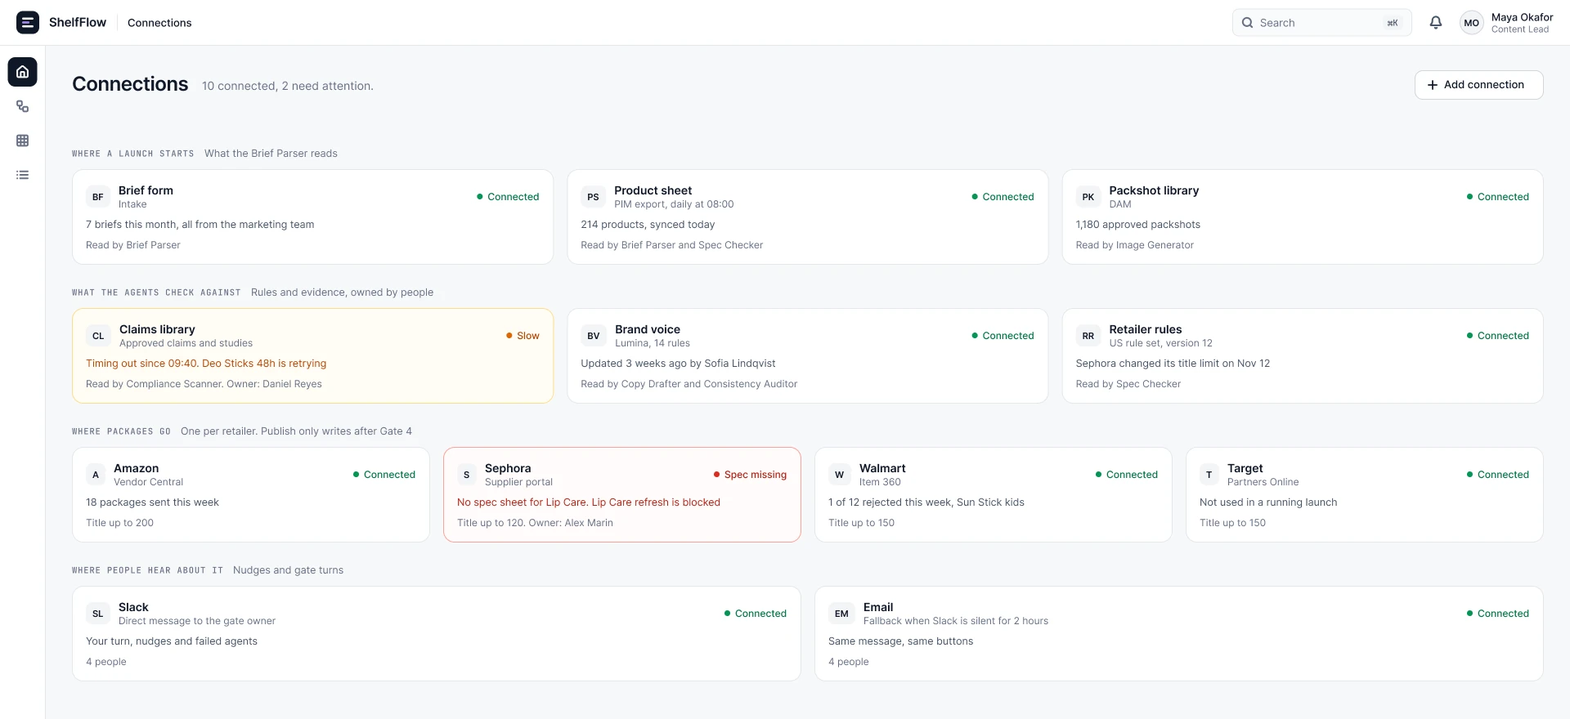
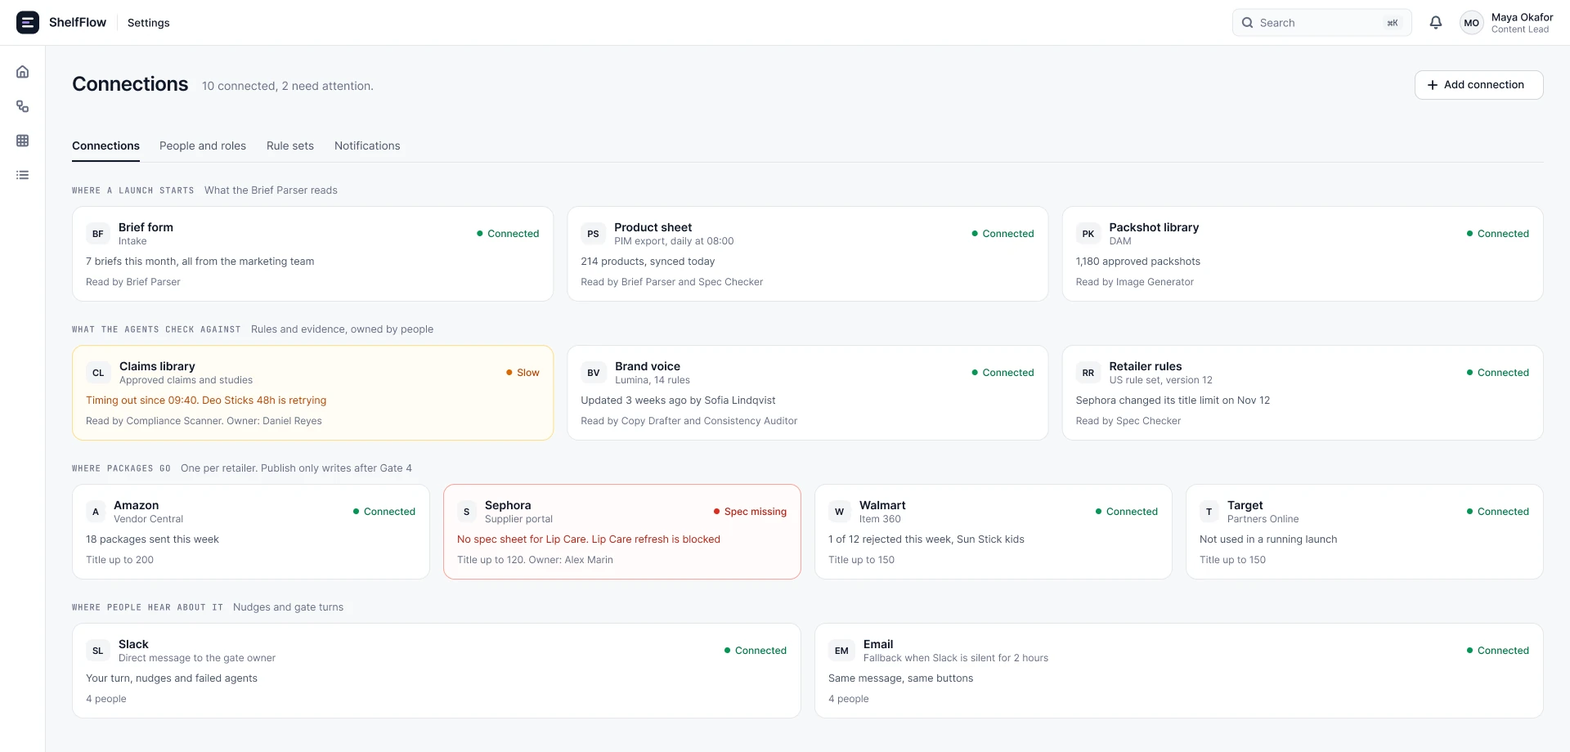
ShelfFlow: Connections as a settings page, chip system shows today's canvas states
Claude-Session: https://claude.ai/code/session_01HvDhLV3ZoERkt8nS9QeULq

diff --git a/work/shelfflow.html b/work/shelfflow.html
@@ -10,7 +10,7 @@
 <meta name="description" content="The supervision interface for an agentic content pipeline. Six AI agents, four human gates, 36 retailer-ready packages per brief. A case study by Inigo Angulo.">
 <meta property="og:title" content="ShelfFlow / Inigo Angulo">
 <meta property="og:description" content="The supervision interface for an agentic content pipeline. Six AI agents, four human gates, 36 retailer-ready packages per brief.">
-<meta property="og:image" content="https://inigoangulo.com/img/shelfflow/og.png?v=1126c">
+<meta property="og:image" content="https://inigoangulo.com/img/shelfflow/og.png?v=1126d">
 <meta property="og:image:width" content="1200">
 <meta property="og:image:height" content="630">
 <meta property="og:type" content="article">
@@ -18,7 +18,7 @@
 <meta name="twitter:card" content="summary_large_image">
 <meta name="twitter:title" content="ShelfFlow / Inigo Angulo">
 <meta name="twitter:description" content="The supervision interface for an agentic content pipeline. Six AI agents, four human gates, 36 retailer-ready packages per brief.">
-<meta name="twitter:image" content="https://inigoangulo.com/img/shelfflow/og.png?v=1126c">
+<meta name="twitter:image" content="https://inigoangulo.com/img/shelfflow/og.png?v=1126d">
 <link rel="preconnect" href="https://fonts.googleapis.com">
 <link rel="preconnect" href="https://fonts.gstatic.com" crossorigin>
 <link href="https://fonts.googleapis.com/css2?family=JetBrains+Mono:wght@300;400;500;600;700&family=IBM+Plex+Sans:wght@400;500;600;700&display=swap" rel="stylesheet">
@@ -89,7 +89,7 @@
   <p class="cs__sub" style="margin:-16px 0 32px;font-size:.78rem;color:var(--t3)">How to read the numbers: client figures are under NDA. "Weeks to days" is the target the product was designed for, not a published result. The numbers in the cards come from the demo launch shown in the screens: Lumina Glow, 6 SKUs, 3 retailers, 2 variants.</p>
 
   <!-- Hero visual -->
-  <div class="cs__img cs__img--wide" data-reveal><img src="../img/shelfflow/cover.png?v=1126c" alt="ShelfFlow canvas in Build mode: a library of agents and gates, and the start of the pipeline as a row of nodes with a sent back loop, above a minimap of the whole flow"></div>
+  <div class="cs__img cs__img--wide" data-reveal><img src="../img/shelfflow/cover.png?v=1126d" alt="ShelfFlow canvas in Build mode: a library of agents and gates, and the start of the pipeline as a row of nodes with a sent back loop, above a minimap of the whole flow"></div>
   <p class="cs__img-cap">The canvas for one launch. Violet nodes are agents, black ones are gates with a person's name on them.</p>
 
 
@@ -350,55 +350,55 @@
     </div>
 
   <div class="cs__screens" data-reveal>
-    <div class="cs__screen"><img src="../img/shelfflow/v4/build-place.webp?v=1126c" alt="Dragging a condition from the library onto an edge of the pipeline" width="1920" height="1080" loading="lazy" decoding="async"><span class="cs__screen-label">Place a node / the edge shows where it fits</span></div>
-    <div class="cs__screen"><img src="../img/shelfflow/v4/build-connect.webp?v=1126c" alt="Pulling a connection from the condition to a new legal review gate" width="1920" height="1080" loading="lazy" decoding="async"><span class="cs__screen-label">Connect a node / the socket shows where it lands</span></div>
+    <div class="cs__screen"><img src="../img/shelfflow/v4/build-place.webp?v=1126d" alt="Dragging a condition from the library onto an edge of the pipeline" width="1920" height="1080" loading="lazy" decoding="async"><span class="cs__screen-label">Place a node / the edge shows where it fits</span></div>
+    <div class="cs__screen"><img src="../img/shelfflow/v4/build-connect.webp?v=1126d" alt="Pulling a connection from the condition to a new legal review gate" width="1920" height="1080" loading="lazy" decoding="async"><span class="cs__screen-label">Connect a node / the socket shows where it lands</span></div>
   </div>
   <p class="cs__img-cap">Adding a branch. A condition dropped between Gate 3 and Gate 4 sends regulated claims through a legal gate, and the launch cannot run until that gate has an owner.</p>
-  <div class="cs__img" data-reveal><img src="../img/shelfflow/v4/build-refuse.webp?v=1126c" alt="The canvas refusing a connection from an agent straight to Publish" width="1920" height="1080" loading="lazy" decoding="async"></div>
+  <div class="cs__img" data-reveal><img src="../img/shelfflow/v4/build-refuse.webp?v=1126d" alt="The canvas refusing a connection from an agent straight to Publish" width="1920" height="1080" loading="lazy" decoding="async"></div>
   <p class="cs__img-cap">A line from an agent to Publish. The canvas refuses it and says why.</p>
     <div class="cs__section-text">
       <p>A real launch does not fit on one screen, and the canvas does not pretend it does. The flow reads in one direction and the operator pans along it, the way they would in any design tool. A minimap keeps the whole pipeline in view and marks the gate that is waiting. Each kind of node shows what it carries: a brief shows the product and where it sells, an agent shows what it made, a gate shows who signs.</p>
     </div>
 
-  <div class="cs__img" data-reveal><img src="../img/shelfflow/v6/run-live.webp?v=1126c" alt="The canvas in the middle of a run, panned to the checks: the Spec Checker is working through three retailers, later steps are joined by dotted lines, and a minimap in the corner shows the whole flow" width="1920" height="1080" loading="lazy" decoding="async"></div>
+  <div class="cs__img" data-reveal><img src="../img/shelfflow/v6/run-live.webp?v=1126d" alt="The canvas in the middle of a run, panned to the checks: the Spec Checker is working through three retailers, later steps are joined by dotted lines, and a minimap in the corner shows the whole flow" width="1920" height="1080" loading="lazy" decoding="async"></div>
   <p class="cs__img-cap">The same canvas halfway through a run, panned to the checks. Dotted lines have not run yet, the diamonds in the launch bar say which gate the launch has reached, and the minimap shows where this view sits in the whole flow.</p>
-  <div class="cs__img" data-reveal><img src="../img/shelfflow/v6/gate-timeline.webp?v=1126c" alt="Five moments of a gate shown in its header: Done in light grey, Now in solid dark, Up next in white, Maybe with a dotted outline and Blocked in red" width="1920" height="372" loading="lazy" decoding="async"></div>
+  <div class="cs__img" data-reveal><img src="../img/shelfflow/v6/gate-timeline.webp?v=1126d" alt="Five moments of a gate shown in its header: Done in light grey, Now in solid dark, Up next in white, Maybe with a dotted outline and Blocked in red" width="1920" height="372" loading="lazy" decoding="async"></div>
   <p class="cs__img-cap">In Build every gate is dark, because it marks where a person decides. Once the launch runs, the header tells time: finished gates go light, the one that is waiting stays dark, and a branch that may not happen is dotted. Every state also has a label, so colour is never the only signal.</p>
     <div class="cs__section-text">
       <p>Every node opens into more detail, and the canvas has to make that clear. A toolbar on every node would put around sixty controls on screen and bury the view of the whole launch. A toolbar that only appears on hover cannot be found, and does not exist on a touch screen. So visibility follows relevance, in three layers: a small mark on every node says it opens, the toolbar appears when a node is hovered or selected, and the one decision that is yours is a button inside the node, always there. What opens is as predictable: any node opens in the side panel to look, expands to a full view to study, and only the Review button on a gate starts a decision, one at a time.</p>
     </div>
 
-  <div class="cs__img" data-reveal><img src="../img/shelfflow/v6/three-layers.webp?v=1126c" alt="The same agent node at rest, on hover with its toolbar, and selected with the toolbar pinned, next to a gate whose Review button sits inside the node" width="1920" height="640" loading="lazy" decoding="async"></div>
+  <div class="cs__img" data-reveal><img src="../img/shelfflow/v6/three-layers.webp?v=1126d" alt="The same agent node at rest, on hover with its toolbar, and selected with the toolbar pinned, next to a gate whose Review button sits inside the node" width="1920" height="640" loading="lazy" decoding="async"></div>
   <p class="cs__img-cap">The same node at rest, on hover and selected. On the right, the gate that is waiting on you carries its own button.</p>
-  <div class="cs__img" data-reveal><img src="../img/shelfflow/v6/node-toolbar.webp?v=1126c" alt="A gate selected in Build mode with its toolbar above it: Change owner, open in side panel, expand, and a More menu that opens upward with Duplicate, Copy link and a locked Delete" width="1920" height="1080" loading="lazy" decoding="async"></div>
+  <div class="cs__img" data-reveal><img src="../img/shelfflow/v6/node-toolbar.webp?v=1126d" alt="A gate selected in Build mode with its toolbar above it: Change owner, open in side panel, expand, and a More menu that opens upward with Duplicate, Copy link and a locked Delete" width="1920" height="1080" loading="lazy" decoding="async"></div>
   <p class="cs__img-cap">The toolbar in Build. One action changes with the node and the other three stay put. The menu opens away from the row, so it never covers the node it belongs to.</p>
     <div class="cs__section-text">
       <p>Before any of that, the operator says where the launch goes. Markets and retailers are chosen first, because everything downstream follows from them: how many packages there are, which claims rules apply and who has to sign. Retailers depend on the market, so the choice is a grid, and the package count moves as it changes.</p>
     </div>
 
   <div class="cs__screens" data-reveal>
-    <div class="cs__screen"><img src="../img/shelfflow/v5/scope-step.webp?v=1126c" alt="Setting the scope of a launch: markets on the left, a grid of retailers per market on the right, and the package count below" width="1920" height="1080" loading="lazy" decoding="async"><span class="cs__screen-label">Scope first / markets, retailers, package count</span></div>
-    <div class="cs__screen"><img src="../img/shelfflow/v5/scope-panel.webp?v=1126c" alt="The scope panel open on the canvas, previewing what adding the United Kingdom would change" width="1920" height="1080" loading="lazy" decoding="async"><span class="cs__screen-label">On the canvas / what a second market adds</span></div>
+    <div class="cs__screen"><img src="../img/shelfflow/v5/scope-step.webp?v=1126d" alt="Setting the scope of a launch: markets on the left, a grid of retailers per market on the right, and the package count below" width="1920" height="1080" loading="lazy" decoding="async"><span class="cs__screen-label">Scope first / markets, retailers, package count</span></div>
+    <div class="cs__screen"><img src="../img/shelfflow/v5/scope-panel.webp?v=1126d" alt="The scope panel open on the canvas, previewing what adding the United Kingdom would change" width="1920" height="1080" loading="lazy" decoding="async"><span class="cs__screen-label">On the canvas / what a second market adds</span></div>
   </div>
   <p class="cs__img-cap">Lumina Glow goes to one market and three retailers: 6 products, 3 retailers, 2 variants, 36 packages. Adding the United Kingdom would add 24.</p>
-  <div class="cs__img" data-reveal><img src="../img/shelfflow/v5/scope-markets.webp?v=1126c" alt="The canvas with two markets: after the retailer checks the flow forks per market, each lane with its own Compliance Scanner rules and its own Gate 3, and the UK gate has no owner yet" width="1920" height="1080" loading="lazy" decoding="async"></div>
+  <div class="cs__img" data-reveal><img src="../img/shelfflow/v5/scope-markets.webp?v=1126d" alt="The canvas with two markets: after the retailer checks the flow forks per market, each lane with its own Compliance Scanner rules and its own Gate 3, and the UK gate has no owner yet" width="1920" height="1080" loading="lazy" decoding="async"></div>
   <p class="cs__img-cap">A second market is more than extra packages. The canvas forks per market, each lane gets its own claims rules and its own Gate 3, and the launch cannot run until the new gate has an owner.</p>
     <div class="cs__section-text">
       <p>The drawing also changes with the brief. A copy refresh on two retailers needs four agents. A seasonal promo needs new visuals, so the operator brings in an optional Image Generator that runs beside the Copy Drafter and arrives at the same gate. A new product line needs every check. ShelfFlow reads the brief and suggests the closest shape.</p>
     </div>
 
   <div class="cs__screens" data-reveal>
-    <div class="cs__screen"><img src="../img/shelfflow/v4/brief-templates.webp?v=1126c" alt="Starting a launch: four pipeline templates, with Promo campaign suggested from the brief" width="1920" height="1080" loading="lazy" decoding="async"><span class="cs__screen-label">Start from the brief / a shape is suggested</span></div>
-    <div class="cs__screen"><img src="../img/shelfflow/v4/promo-canvas.webp?v=1126c" alt="The canvas for a promo campaign, with an optional Image Generator node beside the Copy Drafter" width="1920" height="1080" loading="lazy" decoding="async"><span class="cs__screen-label">Promo canvas / an optional agent joins</span></div>
+    <div class="cs__screen"><img src="../img/shelfflow/v4/brief-templates.webp?v=1126d" alt="Starting a launch: four pipeline templates, with Promo campaign suggested from the brief" width="1920" height="1080" loading="lazy" decoding="async"><span class="cs__screen-label">Start from the brief / a shape is suggested</span></div>
+    <div class="cs__screen"><img src="../img/shelfflow/v4/promo-canvas.webp?v=1126d" alt="The canvas for a promo campaign, with an optional Image Generator node beside the Copy Drafter" width="1920" height="1080" loading="lazy" decoding="async"><span class="cs__screen-label">Promo canvas / an optional agent joins</span></div>
   </div>
   <p class="cs__img-cap">Holiday Gift Sets needs new visuals and carries no regulated claims, so the promo shape is suggested.</p>
-  <div class="cs__img" data-reveal><img src="../img/shelfflow/v4/zoom-optional-node.webp?v=1126c" alt="Close view of the promo canvas: after Gate 1 the path forks to the Copy Drafter and to an Image Generator node tagged optional that shows its packshots, and both meet at Gate 2" width="1664" height="724" loading="lazy" decoding="async"></div>
+  <div class="cs__img" data-reveal><img src="../img/shelfflow/v4/zoom-optional-node.webp?v=1126d" alt="Close view of the promo canvas: after Gate 1 the path forks to the Copy Drafter and to an Image Generator node tagged optional that shows its packshots, and both meet at Gate 2" width="1664" height="724" loading="lazy" decoding="async"></div>
   <p class="cs__img-cap">The optional node, up close. After Gate 1 the path forks: copy on one branch, visuals on the other, and both meet at Gate 2.</p>
-  <div class="cs__img" data-reveal><img src="../img/shelfflow/v4/image-node.webp?v=1126c" alt="The Image Generator node expanded: inputs, generated visuals per retailer format, boundaries and track record" width="1920" height="1080" loading="lazy" decoding="async"></div>
+  <div class="cs__img" data-reveal><img src="../img/shelfflow/v4/image-node.webp?v=1126d" alt="The Image Generator node expanded: inputs, generated visuals per retailer format, boundaries and track record" width="1920" height="1080" loading="lazy" decoding="async"></div>
   <p class="cs__img-cap">Open the node and it shows what every agent shows: what it used, what it made, and what it is not allowed to do. It composes from approved packshots, cannot add a claim or a price, and its output still waits for a person.</p>
-  <div class="cs__img" data-reveal><img src="../img/shelfflow/v4/zoom-image-node.webp?v=1126c" alt="Generated visuals for gift sets by retailer format: some ready, one redone, two still generating" width="1800" height="1194" loading="lazy" decoding="async"></div>
+  <div class="cs__img" data-reveal><img src="../img/shelfflow/v4/zoom-image-node.webp?v=1126d" alt="Generated visuals for gift sets by retailer format: some ready, one redone, two still generating" width="1800" height="1194" loading="lazy" decoding="async"></div>
   <p class="cs__img-cap">Its output: one visual per gift set and retailer format. One was redone for being off brand before anyone saw it. These images were generated for the demo.</p>
-  <div class="cs__img" data-reveal><img src="../img/shelfflow/v4/three-canvases.webp?v=1126c" alt="Three canvases compared: a copy refresh with four agents, a promo campaign with five, and a full launch with six and a legal branch" width="1920" height="1080" loading="lazy" decoding="async"></div>
+  <div class="cs__img" data-reveal><img src="../img/shelfflow/v4/three-canvases.webp?v=1126d" alt="Three canvases compared: a copy refresh with four agents, a promo campaign with five, and a full launch with six and a legal branch" width="1920" height="1080" loading="lazy" decoding="async"></div>
   <p class="cs__img-cap">Three briefs, three canvases, drawn with the same nodes at the same zoom: four, five and six agents. The gates do not move.</p>
     <div class="cs__section-text">
       <p>A shape that worked should not be rebuilt by hand. Once a launch is live, the operator can save it as a template, and Brief Parser does the sorting: it compares past launches and splits every setting into what stays fixed, what comes filled in, and what is asked each time. The next promo is four fields instead of a brief.</p>
@@ -406,16 +406,16 @@
     </div>
 
   <div class="cs__screens" data-reveal>
-    <div class="cs__screen"><img src="../img/shelfflow/v5/template-save.webp?v=1126c" alt="Save as template: the settings of a live launch sorted into three columns, Fixed, Default and Ask every time" width="1920" height="1080" loading="lazy" decoding="async"><span class="cs__screen-label">Save as template / the agent sorts the settings</span></div>
-    <div class="cs__screen"><img src="../img/shelfflow/v5/template-launch.webp?v=1126c" alt="A new launch started from a template: four fields to fill in, next to the list of what is already decided" width="1920" height="1080" loading="lazy" decoding="async"><span class="cs__screen-label">New launch / four fields, the rest is decided</span></div>
+    <div class="cs__screen"><img src="../img/shelfflow/v5/template-save.webp?v=1126d" alt="Save as template: the settings of a live launch sorted into three columns, Fixed, Default and Ask every time" width="1920" height="1080" loading="lazy" decoding="async"><span class="cs__screen-label">Save as template / the agent sorts the settings</span></div>
+    <div class="cs__screen"><img src="../img/shelfflow/v5/template-launch.webp?v=1126d" alt="A new launch started from a template: four fields to fill in, next to the list of what is already decided" width="1920" height="1080" loading="lazy" decoding="async"><span class="cs__screen-label">New launch / four fields, the rest is decided</span></div>
   </div>
   <p class="cs__img-cap">Alex saves Holiday Gift Sets as a template. The next gift set launch asks for products, dates, the offer claim and the packshots, and nothing else.</p>
-  <div class="cs__img" data-reveal><img src="../img/shelfflow/v5/template-update.webp?v=1126c" alt="A proposed template update from version 3 to version 4: two changes with their evidence, the affected node marked on the canvas, and approve or dismiss" width="1920" height="1080" loading="lazy" decoding="async"></div>
+  <div class="cs__img" data-reveal><img src="../img/shelfflow/v5/template-update.webp?v=1126d" alt="A proposed template update from version 3 to version 4: two changes with their evidence, the affected node marked on the canvas, and approve or dismiss" width="1920" height="1080" loading="lazy" decoding="async"></div>
   <p class="cs__img-cap">Keeping it current. Image Generator was added by hand in 4 of the last 5 launches, so Diff Reporter proposes turning it on by default. Maya can approve both changes, one, or none.</p>
-  <div class="cs__img" data-reveal><img src="../img/shelfflow/v5/template-library.webp?v=1126c" alt="The template library: three templates owned by the team with their state and usage, and the three shapes that ship with ShelfFlow, locked" width="1920" height="1080" loading="lazy" decoding="async"></div>
+  <div class="cs__img" data-reveal><img src="../img/shelfflow/v5/template-library.webp?v=1126d" alt="The template library: three templates owned by the team with their state and usage, and the three shapes that ship with ShelfFlow, locked" width="1920" height="1080" loading="lazy" decoding="async"></div>
   <p class="cs__img-cap">The library. The team's templates carry a state, a version and how long they take to reach Live. The three shapes that ship with ShelfFlow can be duplicated, not edited.</p>
-  <div class="cs__img" data-reveal><img src="../img/shelfflow/v5/chip-system.webp?v=1126c" alt="The chip system: five kinds of label, each answering one question, with the life cycle of a launch, a template and a gate" width="1920" height="1080" loading="lazy" decoding="async"></div>
-  <p class="cs__img-cap">Templates added a second thing that could be a draft, so every label in the product was sorted again. A chip now answers one question: where it is, what the agent is doing, what rule applies, where it came from, or how many.</p>
+  <div class="cs__img" data-reveal><img src="../img/shelfflow/v5/chip-system.webp?v=1126d" alt="The chip system: five kinds of label, each answering one question, the life cycle of a launch, a template and a gate, and how each state shows up on the canvas" width="1920" height="1080" loading="lazy" decoding="async"></div>
+  <p class="cs__img-cap">Templates added a second thing that could be a draft, so every label in the product was sorted again. A chip now answers one question: where it is, what the agent is doing, what rule applies, where it came from, or how many. On the canvas the same states sit in the header of the node they describe.</p>
   <a href="/lab/hold-the-gate/" data-reveal style="display:flex;align-items:center;gap:20px;flex-wrap:wrap;background:rgba(45,212,191,.04);border:1px solid rgba(45,212,191,.25);border-radius:12px;padding:22px 26px;margin:28px 0;text-decoration:none">
     <span style="flex:1;min-width:240px">
       <span style="display:block;font-family:var(--m);font-size:11px;color:var(--ac);letter-spacing:2px">&#9670; IN THE LAB, 4 MIN</span>
@@ -439,47 +439,47 @@
       <p>Below, every launch by stage. A card shows what separates one launch from the next: days to launch, progress inside its stage and, when something is wrong, what. The four diamonds in its corner are the same ones the canvas uses: green for a gate already signed, black for the one open now, outlined for the ones still ahead.</p>
     </div>
 
-  <div class="cs__img" data-reveal><img src="../img/shelfflow/v4/home-dashboard.webp?v=1126c" alt="ShelfFlow home: the decision queue with the first row selected, the launches that are not moving with who they wait on, the dates for the week, and a board of sixteen launches by stage" width="1920" height="1080" loading="lazy" decoding="async"></div>
+  <div class="cs__img" data-reveal><img src="../img/shelfflow/v4/home-dashboard.webp?v=1126d" alt="ShelfFlow home: the decision queue with the first row selected, the launches that are not moving with who they wait on, the dates for the week, and a board of sixteen launches by stage" width="1920" height="1080" loading="lazy" decoding="async"></div>
   <p class="cs__img-cap">Home, from the Content Lead's seat. The queue is hers, the list next to it is everyone else's. On the board, black is waiting on her, grey on someone else, violet is an agent working, red is an error.</p>
-  <div class="cs__img" data-reveal><img src="../img/shelfflow/v4/zoom-home-cards.webp?v=1126c" alt="Close view of launch cards: four diamonds for the gates, days to launch, progress bars and error states" width="1800" height="680" loading="lazy" decoding="async"></div>
+  <div class="cs__img" data-reveal><img src="../img/shelfflow/v4/zoom-home-cards.webp?v=1126d" alt="Close view of launch cards: four diamonds for the gates, days to launch, progress bars and error states" width="1800" height="680" loading="lazy" decoding="async"></div>
   <p class="cs__img-cap">Three kinds of trouble on the board: a check blocked by a missing spec sheet, an agent that timed out and is retrying, and a launch two days late.</p>
-  <div class="cs__img" data-reveal><img src="../img/shelfflow/v4/home-filter.webp?v=1126c" alt="The board filtered to launches with an error: two cards remain, with the filter conditions open" width="1864" height="484" loading="lazy" decoding="async"></div>
+  <div class="cs__img" data-reveal><img src="../img/shelfflow/v4/home-filter.webp?v=1126d" alt="The board filtered to launches with an error: two cards remain, with the filter conditions open" width="1864" height="484" loading="lazy" decoding="async"></div>
   <p class="cs__img-cap">Finding one launch among sixteen: search by name, SKU or retailer, or filter by condition.</p>
     <p style="font-family:var(--m);font-size:.72rem;letter-spacing:.1em;text-transform:uppercase;color:var(--ac);margin:44px 0 10px">13:02 to 13:14 / Gate 1, the brief</p>
     <div class="cs__section-text">
       <p>Alex submits the brief. The Brief Parser structures it into 6 SKUs and 36 packages, and stops on what it cannot settle: the brief names three markets, but every retailer and SKU is US only. Maya answers the question and locks the brief. From here it cannot change silently.</p>
     </div>
 
-  <div class="cs__img" data-reveal><img src="../img/shelfflow/v3/gate1.webp?v=1126c" alt="Gate 1: the submitted brief next to what the agent structured, field by field" width="1920" height="1080" loading="lazy" decoding="async"></div>
+  <div class="cs__img" data-reveal><img src="../img/shelfflow/v3/gate1.webp?v=1126d" alt="Gate 1: the submitted brief next to what the agent structured, field by field" width="1920" height="1080" loading="lazy" decoding="async"></div>
   <p class="cs__img-cap">Gate 1. On the left, what Alex wrote. On the right, what the agent read, with every difference marked.</p>
     <p style="font-family:var(--m);font-size:.72rem;letter-spacing:.1em;text-transform:uppercase;color:var(--ac);margin:44px 0 10px">13:17 to 13:52 / Gate 2, drafts and a loop</p>
     <div class="cs__section-text">
       <p>The Copy Drafter writes two versions of all 36 packages. Maya sends three back as too long for Sephora. She says what is wrong in one sentence, the work returns to the agent, and she is free until it comes back. Minutes later the rewrites return with the changes marked, and she approves all 36.</p>
     </div>
 
-  <div class="cs__img" data-reveal><img src="../img/shelfflow/v4/zoom-loop.webp?v=1126c" alt="Close view of the sent back loop between Gate 2 and the Copy Drafter" width="1360" height="680" loading="lazy" decoding="async"></div>
+  <div class="cs__img" data-reveal><img src="../img/shelfflow/v4/zoom-loop.webp?v=1126d" alt="Close view of the sent back loop between Gate 2 and the Copy Drafter" width="1360" height="680" loading="lazy" decoding="async"></div>
   <p class="cs__img-cap">A rejection is a loop, not a dead end. Three drafts are back with the Copy Drafter and everything downstream waits.</p>
     <p style="font-family:var(--m);font-size:.72rem;letter-spacing:.1em;text-transform:uppercase;color:var(--ac);margin:44px 0 10px">14:10 to 14:21 / The checks</p>
     <div class="cs__section-text">
       <p>Past Gate 2 the Spec Checker takes each retailer against its own limits, one row per retailer, and nothing moves on until all three fit. Then the Compliance Scanner reads every claim. On the canvas an agent says what it did in one line: packages written, retailers that fit, claims flagged. The detail is one click away.</p>
     </div>
 
-  <div class="cs__img" data-reveal><img src="../img/shelfflow/v4/zoom-split.webp?v=1126c" alt="Close view of the Spec Checker while it runs: one row per retailer, Amazon fits, Sephora and Walmart are being checked" width="1520" height="800" loading="lazy" decoding="async"></div>
+  <div class="cs__img" data-reveal><img src="../img/shelfflow/v4/zoom-split.webp?v=1126d" alt="Close view of the Spec Checker while it runs: one row per retailer, Amazon fits, Sephora and Walmart are being checked" width="1520" height="800" loading="lazy" decoding="async"></div>
   <p class="cs__img-cap">The Spec Checker while it runs. Amazon fits, Sephora and Walmart are still being checked.</p>
-  <div class="cs__img" data-reveal><img src="../img/shelfflow/v4/run-agent.webp?v=1126c" alt="Clicking the Compliance Scanner opens its essentials in a side panel" width="1920" height="1080" loading="lazy" decoding="async"></div>
+  <div class="cs__img" data-reveal><img src="../img/shelfflow/v4/run-agent.webp?v=1126d" alt="Clicking the Compliance Scanner opens its essentials in a side panel" width="1920" height="1080" loading="lazy" decoding="async"></div>
   <p class="cs__img-cap">Clicking the scanner: what it flagged, what it may and may not do, and how often its flags hold up once a person checks them.</p>
     <p style="font-family:var(--m);font-size:.72rem;letter-spacing:.1em;text-transform:uppercase;color:var(--ac);margin:44px 0 10px">14:21 to 14:52 / Gate 3, compliance</p>
     <div class="cs__section-text">
       <p>The scanner raises four flags: "clinically proven", "results in 14 days", "dermatologist approved" and "all-day protection". They sit on six packages, because the same claim repeats across retailers. The other 30 are clear. The flags are what the agent caught, not what shipped. Daniel takes them one at a time.</p>
     </div>
 
-  <div class="cs__img" data-reveal><img src="../img/shelfflow/v6/gate-panel.webp?v=1126c" alt="Gate 3 selected on the canvas with its side panel open: four flagged claims, the count of clear packages and a Review flags button" width="1920" height="1080" loading="lazy" decoding="async"></div>
+  <div class="cs__img" data-reveal><img src="../img/shelfflow/v6/gate-panel.webp?v=1126d" alt="Gate 3 selected on the canvas with its side panel open: four flagged claims, the count of clear packages and a Review flags button" width="1920" height="1080" loading="lazy" decoding="async"></div>
   <p class="cs__img-cap">Gate 3 from Daniel's seat. Selecting the gate opens it in the side panel, where every node opens, and the decision starts from Review.</p>
-  <div class="cs__img" data-reveal><img src="../img/shelfflow/v6/matrix.webp?v=1126c" alt="The Matrix view: six products by three retailers, two versions per cell, with the six flagged packages marked in red" width="1920" height="1080" loading="lazy" decoding="async"></div>
+  <div class="cs__img" data-reveal><img src="../img/shelfflow/v6/matrix.webp?v=1126d" alt="The Matrix view: six products by three retailers, two versions per cell, with the six flagged packages marked in red" width="1920" height="1080" loading="lazy" decoding="async"></div>
   <p class="cs__img-cap">The same moment in the Matrix view: every package by product and retailer. Four flags on six packages, 30 clear.</p>
-  <div class="cs__img" data-reveal><img src="../img/shelfflow/v4/gate3-review.webp?v=1126c" alt="Gate 3 opened over the canvas, showing one flagged sentence" width="1920" height="1080" loading="lazy" decoding="async"></div>
+  <div class="cs__img" data-reveal><img src="../img/shelfflow/v4/gate3-review.webp?v=1126d" alt="Gate 3 opened over the canvas, showing one flagged sentence" width="1920" height="1080" loading="lazy" decoding="async"></div>
   <p class="cs__img-cap">One flag: the sentence, the reason, a note for the agent, and a keyboard shortcut per answer. This decision also covers the same claim in two other packages.</p>
-  <div class="cs__img" data-reveal><img src="../img/shelfflow/v3/gate3-evidence.webp?v=1126c" alt="The full evidence view for one flag, with the decision panel" width="1920" height="1080" loading="lazy" decoding="async"></div>
+  <div class="cs__img" data-reveal><img src="../img/shelfflow/v3/gate3-evidence.webp?v=1126d" alt="The full evidence view for one flag, with the decision panel" width="1920" height="1080" loading="lazy" decoding="async"></div>
   <p class="cs__img-cap">The evidence behind it: the rule, the source sentence in the brief, and a suggested rewrite that is never applied on its own.</p>
     <p style="font-family:var(--m);font-size:.72rem;letter-spacing:.1em;text-transform:uppercase;color:var(--ac);margin:44px 0 10px">14:52 to 15:24 / Gate 4, the launch</p>
     <div class="cs__section-text">
@@ -487,8 +487,8 @@
     </div>
 
   <div class="cs__screens" data-reveal>
-    <div class="cs__screen"><img src="../img/shelfflow/v4/gate4-choose.webp?v=1126c" alt="Gate 4: choosing between version A and B for one product and retailer" width="1920" height="1080" loading="lazy" decoding="async"><span class="cs__screen-label">Gate 4 / one choice</span></div>
-    <div class="cs__screen"><img src="../img/shelfflow/v4/gate4-batch.webp?v=1126c" alt="Gate 4: the batch shortcut stays locked until every choice has been opened" width="1920" height="1080" loading="lazy" decoding="async"><span class="cs__screen-label">Gate 4 / the shortcut, still locked</span></div>
+    <div class="cs__screen"><img src="../img/shelfflow/v4/gate4-choose.webp?v=1126d" alt="Gate 4: choosing between version A and B for one product and retailer" width="1920" height="1080" loading="lazy" decoding="async"><span class="cs__screen-label">Gate 4 / one choice</span></div>
+    <div class="cs__screen"><img src="../img/shelfflow/v4/gate4-batch.webp?v=1126d" alt="Gate 4: the batch shortcut stays locked until every choice has been opened" width="1920" height="1080" loading="lazy" decoding="async"><span class="cs__screen-label">Gate 4 / the shortcut, still locked</span></div>
   </div>
   <p class="cs__img-cap">Two versions side by side with their character counts. On the right, the shortcut waits for six choices she has not opened yet.</p>
     <p style="font-family:var(--m);font-size:.72rem;letter-spacing:.1em;text-transform:uppercase;color:var(--ac);margin:44px 0 10px">15:24 / Live</p>
@@ -496,18 +496,18 @@
       <p>Sofia approves. One variant of each product goes live on each retailer: 18 packages, 2 hours and 22 minutes after the brief arrived.</p>
     </div>
 
-  <div class="cs__img" data-reveal><img src="../img/shelfflow/v4/run-done.webp?v=1126c" alt="The canvas after launch: every gate signed, 18 packages live" width="1920" height="1080" loading="lazy" decoding="async"></div>
+  <div class="cs__img" data-reveal><img src="../img/shelfflow/v4/run-done.webp?v=1126d" alt="The canvas after launch: every gate signed, 18 packages live" width="1920" height="1080" loading="lazy" decoding="async"></div>
   <p class="cs__img-cap">The same drawing Alex built, with every node done.</p>
-  <div class="cs__img" data-reveal><img src="../img/shelfflow/v3/audit.webp?v=1126c" alt="Audit trail view: every step in order with people in bold, and one step open showing who sent three packages back, why, and what the agents did next" width="1920" height="1080" loading="lazy" decoding="async"></div>
+  <div class="cs__img" data-reveal><img src="../img/shelfflow/v3/audit.webp?v=1126d" alt="Audit trail view: every step in order with people in bold, and one step open showing who sent three packages back, why, and what the agents did next" width="1920" height="1080" loading="lazy" decoding="async"></div>
   <p class="cs__img-cap">The audit trail for this launch. People are in bold and each gate decision is tagged, so "who approved this claim?" is one row with a name and a time. Every step opens in place: who, what, the note that went to the agent and what happened next.</p>
     <p style="font-family:var(--m);font-size:.72rem;letter-spacing:.1em;text-transform:uppercase;color:var(--ac);margin:44px 0 10px">Off the happy path</p>
     <div class="cs__section-text">
       <p>Lumina Glow went through without a failure, and most launches do not. Two things break a pipeline like this one: an agent that stops answering, and a person who does not see that a gate is waiting. Each has a designed path. An agent retries three times on its own, then stops the launch at its node and tells the operator, who can retry it or hand the node to a person. A failed agent never passes work on, so the gate after it stays closed. A person gets a nudge that carries the decision itself, and the two gates that are one question at a time can be answered from a phone.</p>
     </div>
-  <div class="cs__img" data-reveal><img src="../img/shelfflow/v6/off-plan.webp?v=1126c" alt="Three states of a failing agent, the nudge a gate owner receives with the flag inside it, and Gate 3 reviewed on a phone" width="1920" height="780" loading="lazy" decoding="async"></div>
+  <div class="cs__img" data-reveal><img src="../img/shelfflow/v6/off-plan.webp?v=1126d" alt="Three states of a failing agent, the nudge a gate owner receives with the flag inside it, and Gate 3 reviewed on a phone" width="1920" height="780" loading="lazy" decoding="async"></div>
   <p class="cs__img-cap">When it does not go to plan: the agent that fails, the nudge as the gate owner gets it, and the gate on a phone. Gate 4 stays on a desk, because 18 choices need both versions side by side.</p>
-  <div class="cs__img" data-reveal><img src="../img/shelfflow/v6/connections.webp?v=1126c" alt="Connections: where a launch starts, what the agents check against, where packages go and where people are told, with two connections needing attention" width="1920" height="880" loading="lazy" decoding="async"></div>
-  <p class="cs__img-cap">Connections, the last place a problem hides. The two that need attention here are the same two launches that are not moving on Home: Sephora has no spec sheet for Lip Care, and the claims library is timing out for Deo Sticks.</p>
+  <div class="cs__img" data-reveal><img src="../img/shelfflow/v6/connections.webp?v=1126d" alt="Connections: where a launch starts, what the agents check against, where packages go and where people are told, with two connections needing attention" width="1920" height="920" loading="lazy" decoding="async"></div>
+  <p class="cs__img-cap">Connections, a settings page reached from the account menu, and the last place a problem hides. The two that need attention here are the same two launches that are not moving on Home: Sephora has no spec sheet for Lip Care, and the claims library is timing out for Deo Sticks.</p>
   </div>
 
   <div class="cs__section" id="s05" data-reveal>

diff --git a/index.html b/index.html
@@ -936,7 +936,7 @@ window.addEventListener('DOMContentLoaded',function(){
 
 <div class="layer layer--raised"><div class="mx"><div class="sh"><span>// work</span></div>
 <div class="cards">
-<a href="work/shelfflow.html" class="cd cd--f cd--5"><div class="cd__img"><img src="img/shelfflow/flagship-card.webp?v=1126c" width="2374" height="1118" decoding="async" alt="ShelfFlow: six agents do the work, four people decide what ships" style="width:100%;height:100%;object-fit:cover;object-position:center;position:absolute;inset:0"></div><div class="cd__body"><div class="cd__type"><span class="cd__tag cd__tag--who">Enterprise CPG / NDA</span><span class="cd__tag cd__tag--what">Agentic Pipeline</span><span class="cd__tag cd__tag--result">1 Brief &#8594; 36 Packages</span><span class="cd__tag cd__tag--live">Interactive Demo</span></div><h3 class="cd__name">ShelfFlow</h3><p class="cd__desc">The supervision interface for an agentic content pipeline: six AI agents generate and adapt, four human gates decide what ships across retailers.</p><div class="cd__foot"><span class="cd__yr">View case study</span><span class="cd__go">&#8594;</span></div></div></a>
+<a href="work/shelfflow.html" class="cd cd--f cd--5"><div class="cd__img"><img src="img/shelfflow/flagship-card.webp?v=1126d" width="2374" height="1118" decoding="async" alt="ShelfFlow: six agents do the work, four people decide what ships" style="width:100%;height:100%;object-fit:cover;object-position:center;position:absolute;inset:0"></div><div class="cd__body"><div class="cd__type"><span class="cd__tag cd__tag--who">Enterprise CPG / NDA</span><span class="cd__tag cd__tag--what">Agentic Pipeline</span><span class="cd__tag cd__tag--result">1 Brief &#8594; 36 Packages</span><span class="cd__tag cd__tag--live">Interactive Demo</span></div><h3 class="cd__name">ShelfFlow</h3><p class="cd__desc">The supervision interface for an agentic content pipeline: six AI agents generate and adapt, four human gates decide what ships across retailers.</p><div class="cd__foot"><span class="cd__yr">View case study</span><span class="cd__go">&#8594;</span></div></div></a>
 <a href="work/acervo.html" class="cd cd--f cd--1"><div class="cd__img"><img src="img/acervo-card.webp" width="2374" height="1118" decoding="async" alt="Acervo private automotive collections" style="width:100%;height:100%;object-fit:cover;object-position:center;position:absolute;inset:0"></div><div class="cd__body"><div class="cd__type"><span class="cd__tag cd__tag--who">Acervo / Private client, Mexico</span><span class="cd__tag cd__tag--what">AI Build / Agent Team</span><span class="cd__tag cd__tag--result">17 Days to Production</span><span class="cd__tag cd__tag--live">Live at app.acervogroup.com</span></div><h3 class="cd__name">Acervo</h3><p class="cd__desc">A private platform for a serious car collection, built for a private collector in Mexico. Scoped, designed and shipped solo with eight AI agents under two human gates.</p><div class="cd__foot"><span class="cd__yr">View case study</span><span class="cd__go">&#8594;</span></div></div></a>
 <a href="work/checkout.html" class="cd cd--3"><div class="cd__img"><img src="img/gyg-card.webp?v=1118w" width="1920" height="1200" decoding="async" loading="lazy" alt="GetYourGuide checkout redesign: the funnel leaked between steps, +11% conversion" style="width:100%;height:100%;object-fit:cover;position:absolute;inset:0"></div><div class="cd__body"><div class="cd__type"><span class="cd__tag cd__tag--who">GetYourGuide</span><span class="cd__tag cd__tag--what">CRO / 10 A/B Tests</span><span class="cd__tag cd__tag--result">+11% Conversion</span><span class="cd__tag cd__tag--live">Live in Production</span></div><h3 class="cd__name">Checkout Funnel Redesign</h3><p class="cd__desc">The team was optimizing the wrong step. 38% of converters left checkout and came back to nothing. Ten experiments on the gap nobody measured.</p><div class="cd__foot"><span class="cd__yr">View case study</span><span class="cd__go">&#8594;</span></div></div></a>
 <div class="cards__side">
